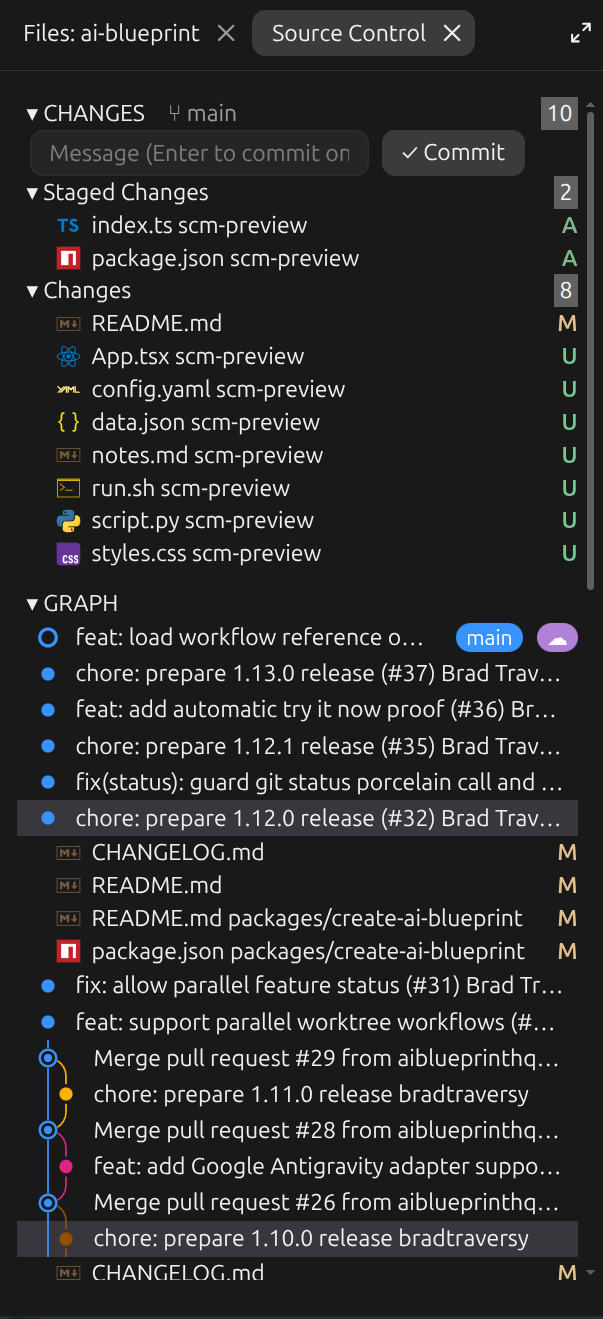
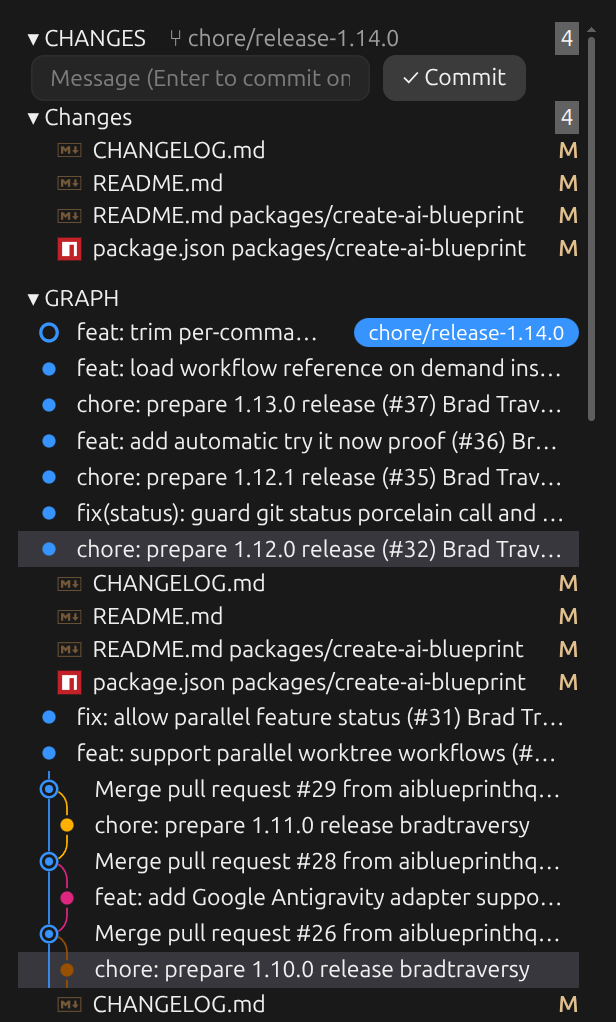
docs: use a cleaner source control screenshot

diff --git a/source-control/README.md b/source-control/README.md
@@ -2,7 +2,7 @@
 
 Source Control opens a pane beside the chat modeled on VS Code's Source Control view. It shows the session's Git changes in Merge, Staged and Changes groups, lets you stage, unstage, discard and commit, and draws the commit graph below them. On the desktop each file shows the same icon VS Code shows when the vscode-icons theme is installed.
 
-<img src="../docs/images/source-control.png" alt="Source Control pane with staged and unstaged changes, file icons, and the commit graph with an expanded commit" width="360">
+<img src="../docs/images/source-control.png" alt="Source Control pane with changed files, file icons, and the commit graph with an expanded commit" width="360">
 
 - Changes grouped as VS Code groups them, with counts and VS Code's status colors
 - Stage, unstage and discard per file or per group, with discard asking first

diff --git a/README.md b/README.md
@@ -55,7 +55,7 @@ claude plugin install next-steps@traversy-mods
 
 A pane beside the chat modeled on VS Code's Source Control view. It lists staged and unstaged changes with the same file icons VS Code shows, stages, unstages, discards and commits, and draws the commit graph with your branch and its upstream labeled. Click a commit to see its files, and click a file to open it in VS Code.
 
-<img src="./docs/images/source-control.png" alt="Source Control pane with staged and unstaged changes, file icons, and the commit graph" width="360">
+<img src="./docs/images/source-control.png" alt="Source Control pane with changed files, file icons, and the commit graph with an expanded commit" width="360">
 
 ```bash
 claude plugin install source-control@traversy-mods
